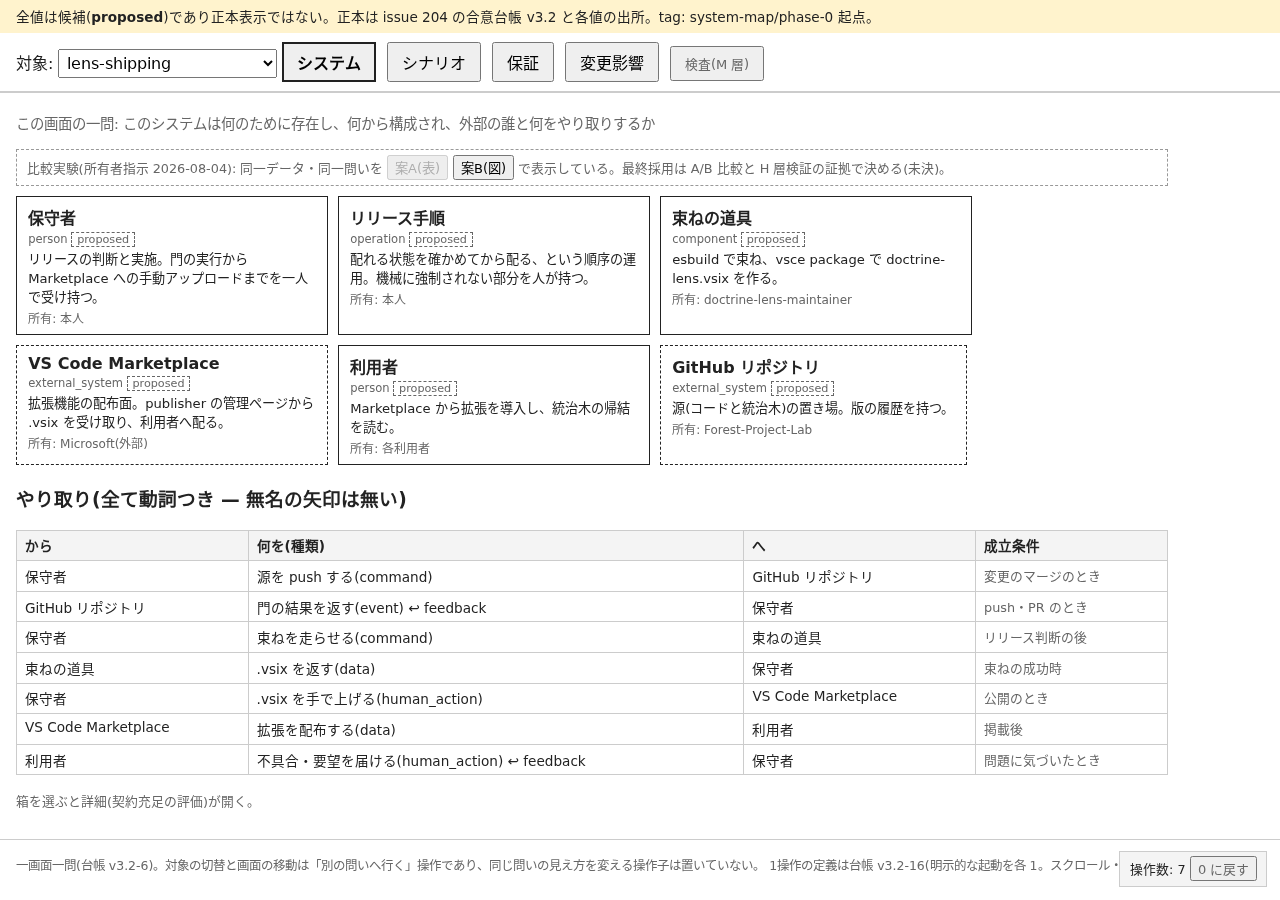
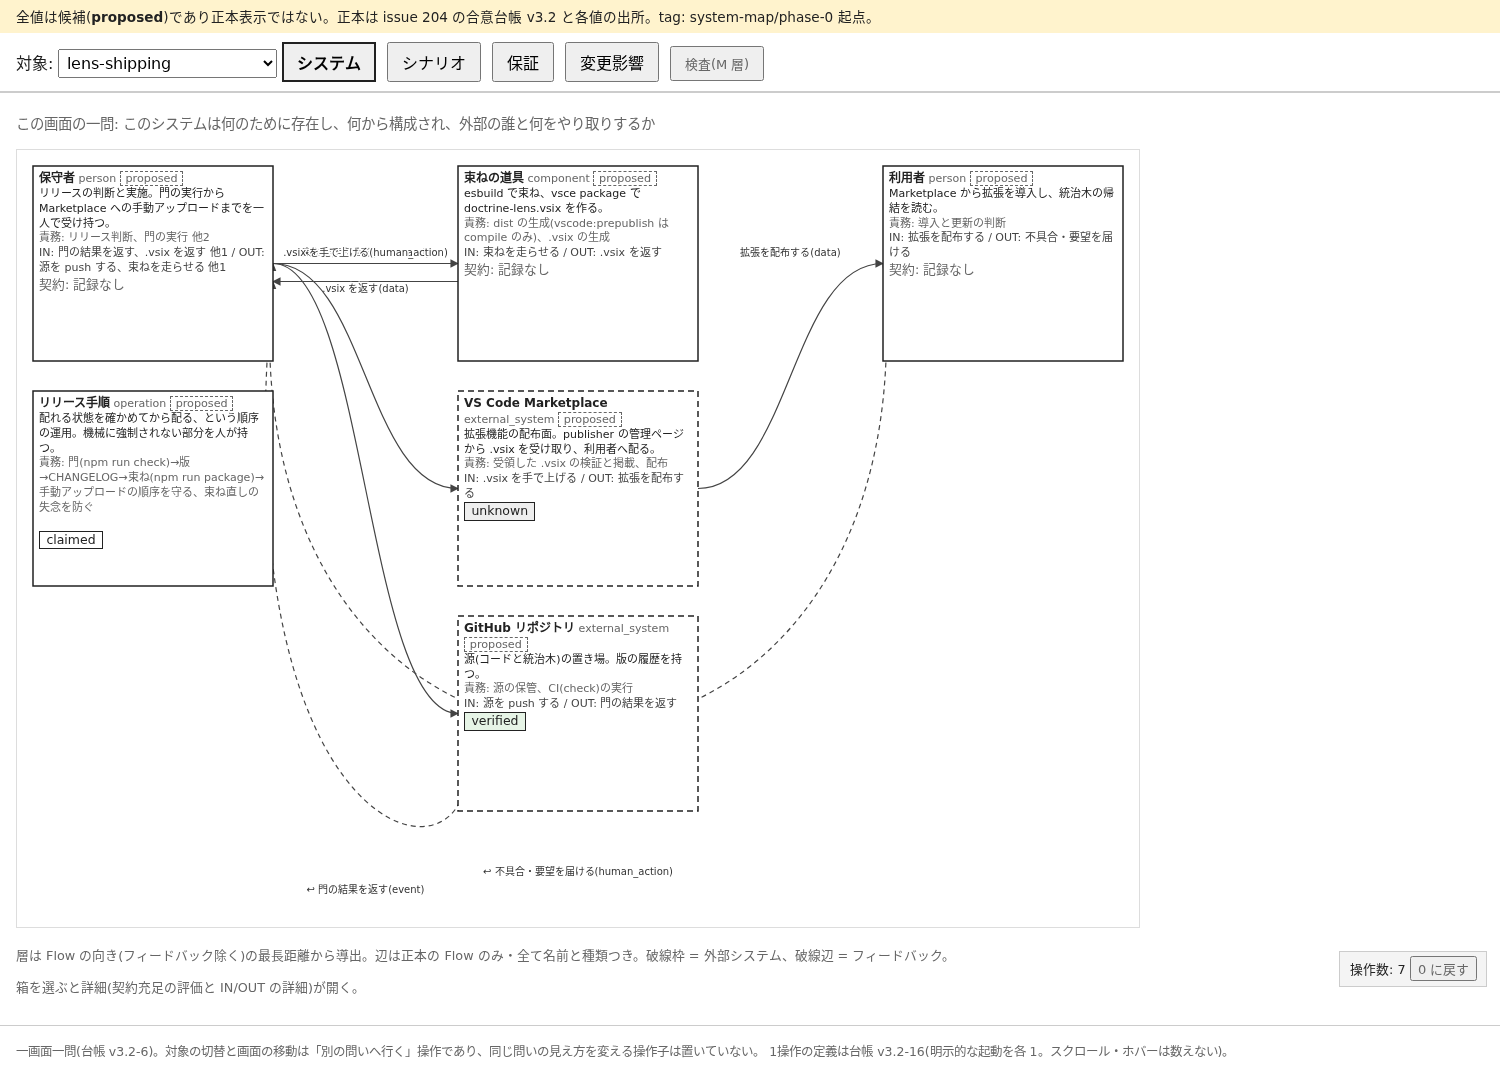
静止画を撮り直す(構成図が主画面の版。旧 A/B 比較用 3 枚を削除)

diff --git a/research/system-map/prototype/shots/README.md b/research/system-map/prototype/shots/README.md
@@ -1,20 +1,18 @@
 # 静止画(所有者の UIUX 確認用)
 
-撮影時点: commit `b4426f2`(experiment/system-map)・2026-08-04。
+撮影時点: commit `01e844d`(experiment/system-map)・2026-08-04。
 **静止画は撮った時点の木でしか正しくない。** 模型や画面を変えたら撮り直す(build.mjs → shoot.mjs)。
+12〜14 番(旧 案A/案B 比較用)は、所有者判断(2026-08-04、構成図を採用)により役目を終えて削除した。
 
-- `01-system-t1.png` — 対象1(Doctrine+Lens)システム画面 — 境界の箱とやり取りの表
-- `02-system-t1-detail.png` — lens を選択 → 詳細パネル(契約充足の評価)。verified の条件併記
+- `01-system-t1.png` — 対象1(Doctrine+Lens)システム画面 — 構成図(採用: 所有者判断 2026-08-04)
+- `02-system-t1-detail.png` — lens を選択 → 詳細パネル(IN/OUT の詳細表+契約充足の評価)
 - `03-system-t1-drill.png` — doctrine の内部(black box → white box。パンくず付き)
 - `04-scenario-t1.png` — 対象1 シナリオ画面(正常系+例外系)
 - `05-assurance-t1.png` — 対象1 保証画面 — 状態を重い順、unknown は負の出所つき
 - `06-assurance-t2.png` — 対象2(出荷プロセス)保証画面 — claimed(stale .vsix 事故)と unknown
-- `07-system-t2.png` — 対象2 システム画面 — 人・運用・外部系を含む境界
-- `08-system-t3.png` — 対象3(Celery)システム画面
+- `07-system-t2.png` — 対象2 システム画面(構成図) — 人・運用・外部系を含む境界
+- `08-system-t3.png` — 対象3(Celery)システム画面(構成図)
 - `09-assurance-t3.png` — 対象3 保証画面 — 順序保証の unknown(負の出所2件)
 - `10-impact.png` — 変更影響画面 — 答えの正本は既存 Lens と明記(混ぜない)
-- `11-inspect.png` — 検査画面 — M-13/M-14 の判定と全要素の操作数表
-- `12-system-b-t1.png` — 案B: 対象1 構成図 — 層は Flow 方向から導出、全辺ラベル、状態章つきの箱
-- `13-system-b-t2.png` — 案B: 対象2 構成図(人・運用・外部系)
-- `14-system-b-t3.png` — 案B: 対象3 構成図(Celery)
+- `11-inspect.png` — 検査画面 — M-13/M-14(負の試験で発火確認済み)と全要素の操作数表
 - `15-assurance-fixture.png` — fixture(架空): planned/failed/stale を含む保証画面 — H 層 T6 用
